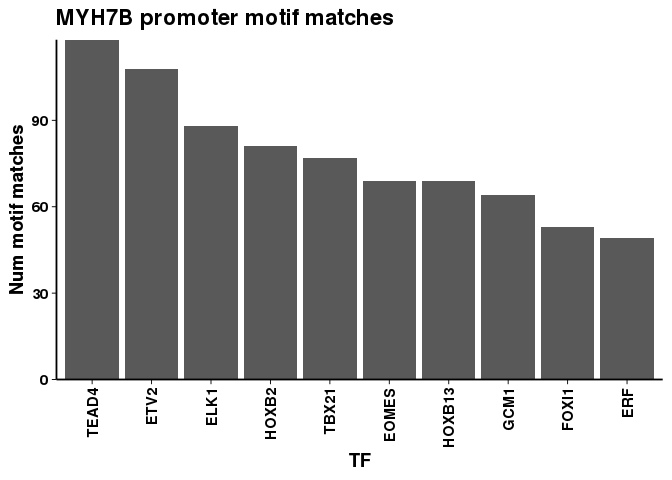
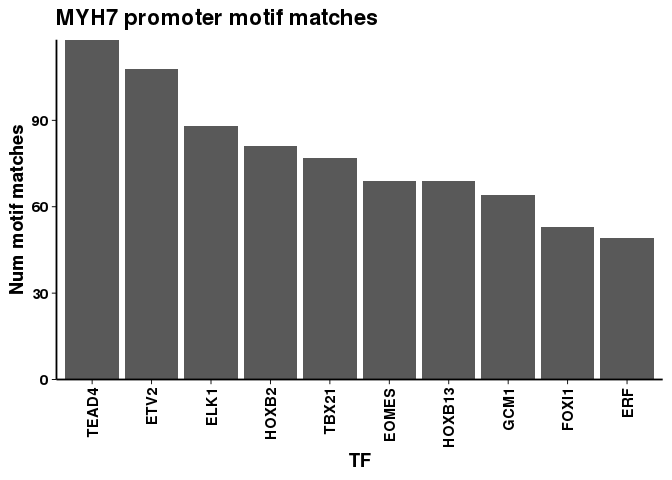
Fixed plot label.

Changed region(s): [[0.1562, 0.0, 0.5938, 0.0625]]

diff --git a/analysis/02_tf_enrichment/myh7_promoter_motifs.md b/analysis/02_tf_enrichment/myh7_promoter_motifs.md
@@ -36,18 +36,18 @@ wget -O result.txt 'http://www.ensembl.org/biomart/martservice?query=<?xml versi
 </Query>'
 ```
 
-    ## --2020-05-28 11:10:37--  http://www.ensembl.org/biomart/martservice?query=%3C?xml%20version=%221.0%22%20encoding=%22UTF-8%22?%3E%20%0A%3C!DOCTYPE%20Query%3E%0A%3CQuery%20%20virtualSchemaName%20=%20%22default%22%20formatter%20=%20%22TSV%22%20header%20=%20%220%22%20uniqueRows%20=%20%220%22%20count%20=%20%22%22%20datasetConfigVersion%20=%20%220.6%22%20%3E%0A%09%09%09%0A%09%3CDataset%20name%20=%20%22hsapiens_motif_feature%22%20interface%20=%20%22default%22%20%3E%0A%09%09%3CFilter%20name%20=%20%22chromosome_name%22%20value%20=%20%2214%22/%3E%0A%09%09%3CFilter%20name%20=%20%22start%22%20value%20=%20%2223432661%22/%3E%0A%09%09%3CFilter%20name%20=%20%22end%22%20value%20=%20%2223438660%22/%3E%0A%09%09%3CAttribute%20name%20=%20%22binding_matrix_id%22%20/%3E%0A%09%09%3CAttribute%20name%20=%20%22chromosome_name%22%20/%3E%0A%09%09%3CAttribute%20name%20=%20%22chromosome_start%22%20/%3E%0A%09%09%3CAttribute%20name%20=%20%22chromosome_end%22%20/%3E%0A%09%09%3CAttribute%20name%20=%20%22score%22%20/%3E%0A%09%09%3CAttribute%20name%20=%20%22feature_type_name%22%20/%3E%0A%09%09%3CAttribute%20name%20=%20%22display_label%22%20/%3E%0A%09%3C/Dataset%3E%0A%3C/Query%3E
+    ## --2020-05-28 12:26:48--  http://www.ensembl.org/biomart/martservice?query=%3C?xml%20version=%221.0%22%20encoding=%22UTF-8%22?%3E%20%0A%3C!DOCTYPE%20Query%3E%0A%3CQuery%20%20virtualSchemaName%20=%20%22default%22%20formatter%20=%20%22TSV%22%20header%20=%20%220%22%20uniqueRows%20=%20%220%22%20count%20=%20%22%22%20datasetConfigVersion%20=%20%220.6%22%20%3E%0A%09%09%09%0A%09%3CDataset%20name%20=%20%22hsapiens_motif_feature%22%20interface%20=%20%22default%22%20%3E%0A%09%09%3CFilter%20name%20=%20%22chromosome_name%22%20value%20=%20%2214%22/%3E%0A%09%09%3CFilter%20name%20=%20%22start%22%20value%20=%20%2223432661%22/%3E%0A%09%09%3CFilter%20name%20=%20%22end%22%20value%20=%20%2223438660%22/%3E%0A%09%09%3CAttribute%20name%20=%20%22binding_matrix_id%22%20/%3E%0A%09%09%3CAttribute%20name%20=%20%22chromosome_name%22%20/%3E%0A%09%09%3CAttribute%20name%20=%20%22chromosome_start%22%20/%3E%0A%09%09%3CAttribute%20name%20=%20%22chromosome_end%22%20/%3E%0A%09%09%3CAttribute%20name%20=%20%22score%22%20/%3E%0A%09%09%3CAttribute%20name%20=%20%22feature_type_name%22%20/%3E%0A%09%09%3CAttribute%20name%20=%20%22display_label%22%20/%3E%0A%09%3C/Dataset%3E%0A%3C/Query%3E
     ## Resolving www.ensembl.org (www.ensembl.org)... 193.62.193.83
     ## Connecting to www.ensembl.org (www.ensembl.org)|193.62.193.83|:80... connected.
     ## HTTP request sent, awaiting response... 200 OK
     ## Length: unspecified [text/plain]
     ## Saving to: ‘result.txt’
     ## 
-    ##      0K .......... .......... .......... .......... .......... 63.4K
-    ##     50K .......... .......... .......... .......... .......... 68.4K
-    ##    100K .......... .......... .                                39.7K=2.1s
+    ##      0K .......... .......... .......... .......... .......... 41.8K
+    ##     50K .......... .......... .......... .......... .......... 48.5K
+    ##    100K .......... .......... .                                14.1K=3.8s
     ## 
-    ## 2020-05-28 11:10:40 (58.9 KB/s) - ‘result.txt’ saved [124523]
+    ## 2020-05-28 12:26:52 (32.4 KB/s) - ‘result.txt’ saved [124523]
 
 What does the double colon mean in the ensembl regulatory build?
 
@@ -86,19 +86,12 @@ g + geom_bar(stat = "identity") +
         axis.line = element_line(colour = "black")) + 
   xlab("TF") +
   ylab("Num motif matches") +
-  ggtitle("MYH7B promoter motif matches")
+  ggtitle("MYH7 promoter motif matches")
 ```
 
 ![](myh7_promoter_motifs_files/figure-markdown_github/binding-site-count-1.png)
 
 ``` r
-ggsave("figures/myh7b_promoter_motif_matches.png")
+ggsave("figures/myh7_promoter_motif_matches.png")
+ggsave("figures/myh7_promoter_motif_matches.pdf")
 ```
-
-    ## Saving 7 x 5 in image
-
-``` r
-ggsave("figures/myh7b_promoter_motif_matches.pdf")
-```
-
-    ## Saving 7 x 5 in image
